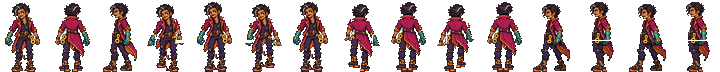
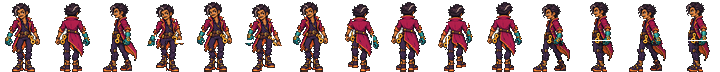
Shoes keep their shape when the stance is narrowed
The legs now angle in only down to the ankle; below it each shoe moves as a
solid piece, so toes point outward as drawn instead of being slanted inward.

diff --git a/scripts/walk_cycle.py b/scripts/walk_cycle.py
@@ -87,8 +87,11 @@ def narrow_stance(view):
     out = a.copy()
     out[hip:] = 0
     top_leg = hip - 1
+    # The legs angle in down to the ankle; the shoes move as solid pieces below it, so they
+    # keep their shape (toes still pointing outward) instead of being slanted inward.
+    ankle = bottom - max(4, round((bottom - top) * 0.13))
     for y in range(top_leg, bottom + 1):
-        t = (y - top_leg) / max(1, bottom - top_leg)
+        t = min(1.0, (y - top_leg) / max(1, ankle - top_leg))
         d = round(pull * t)
         for x in np.nonzero(opaque[y])[0]:
             nx = x + d if x < cx else x - d
